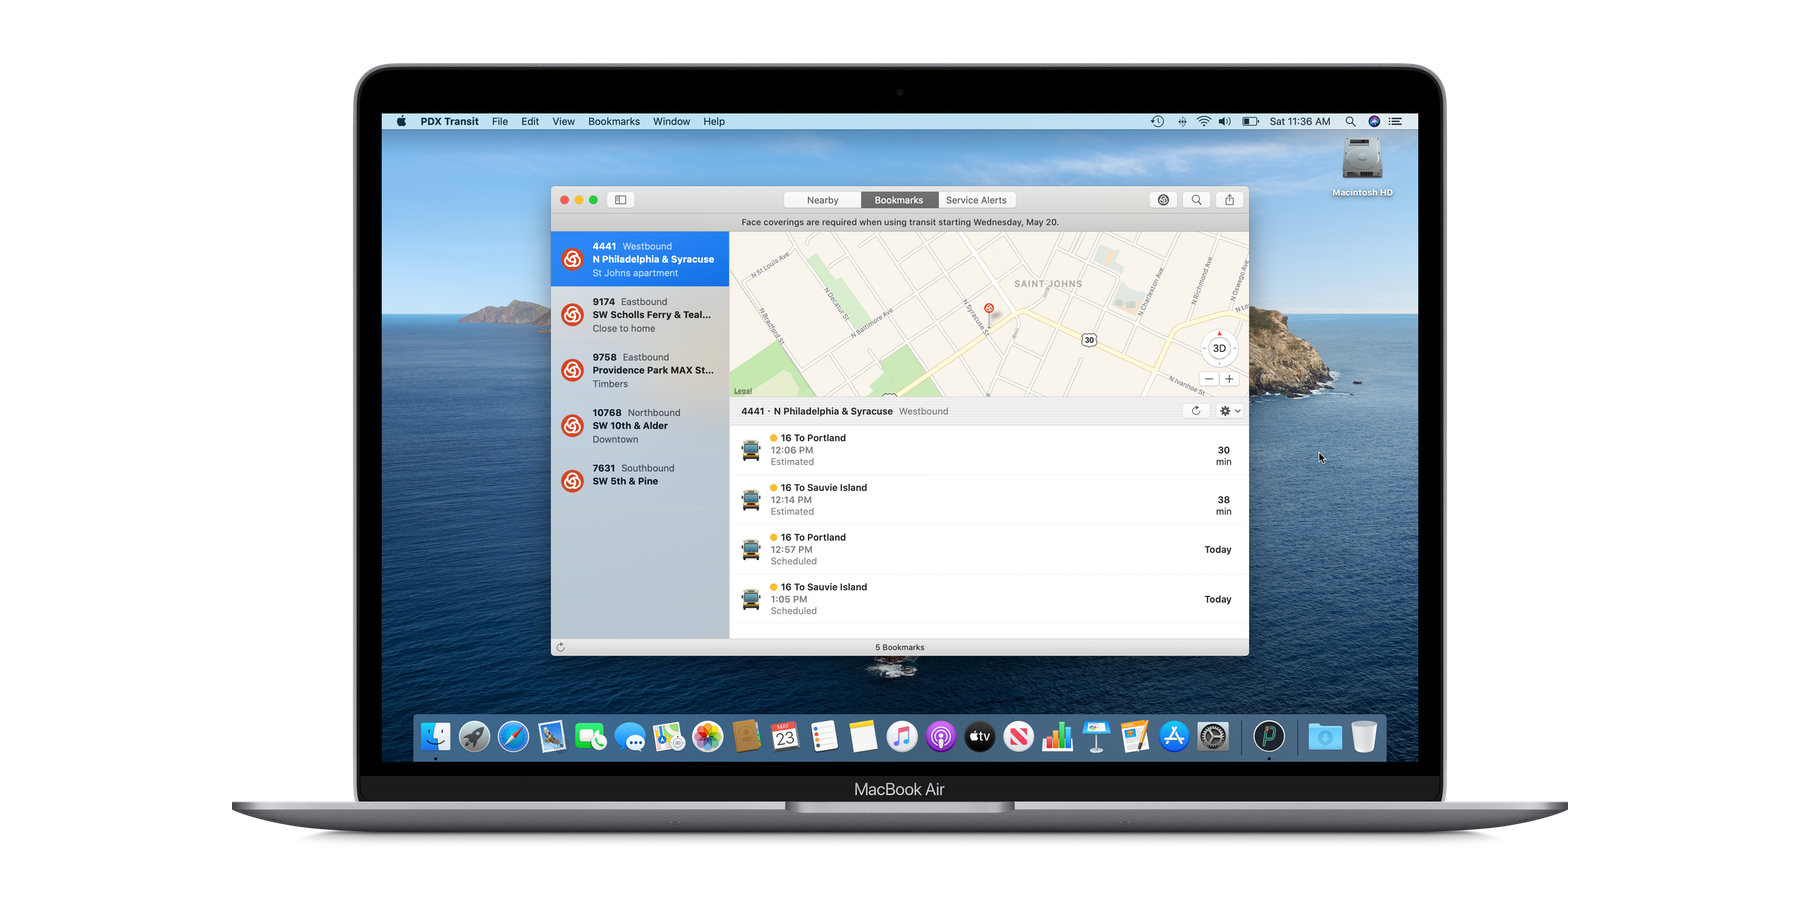
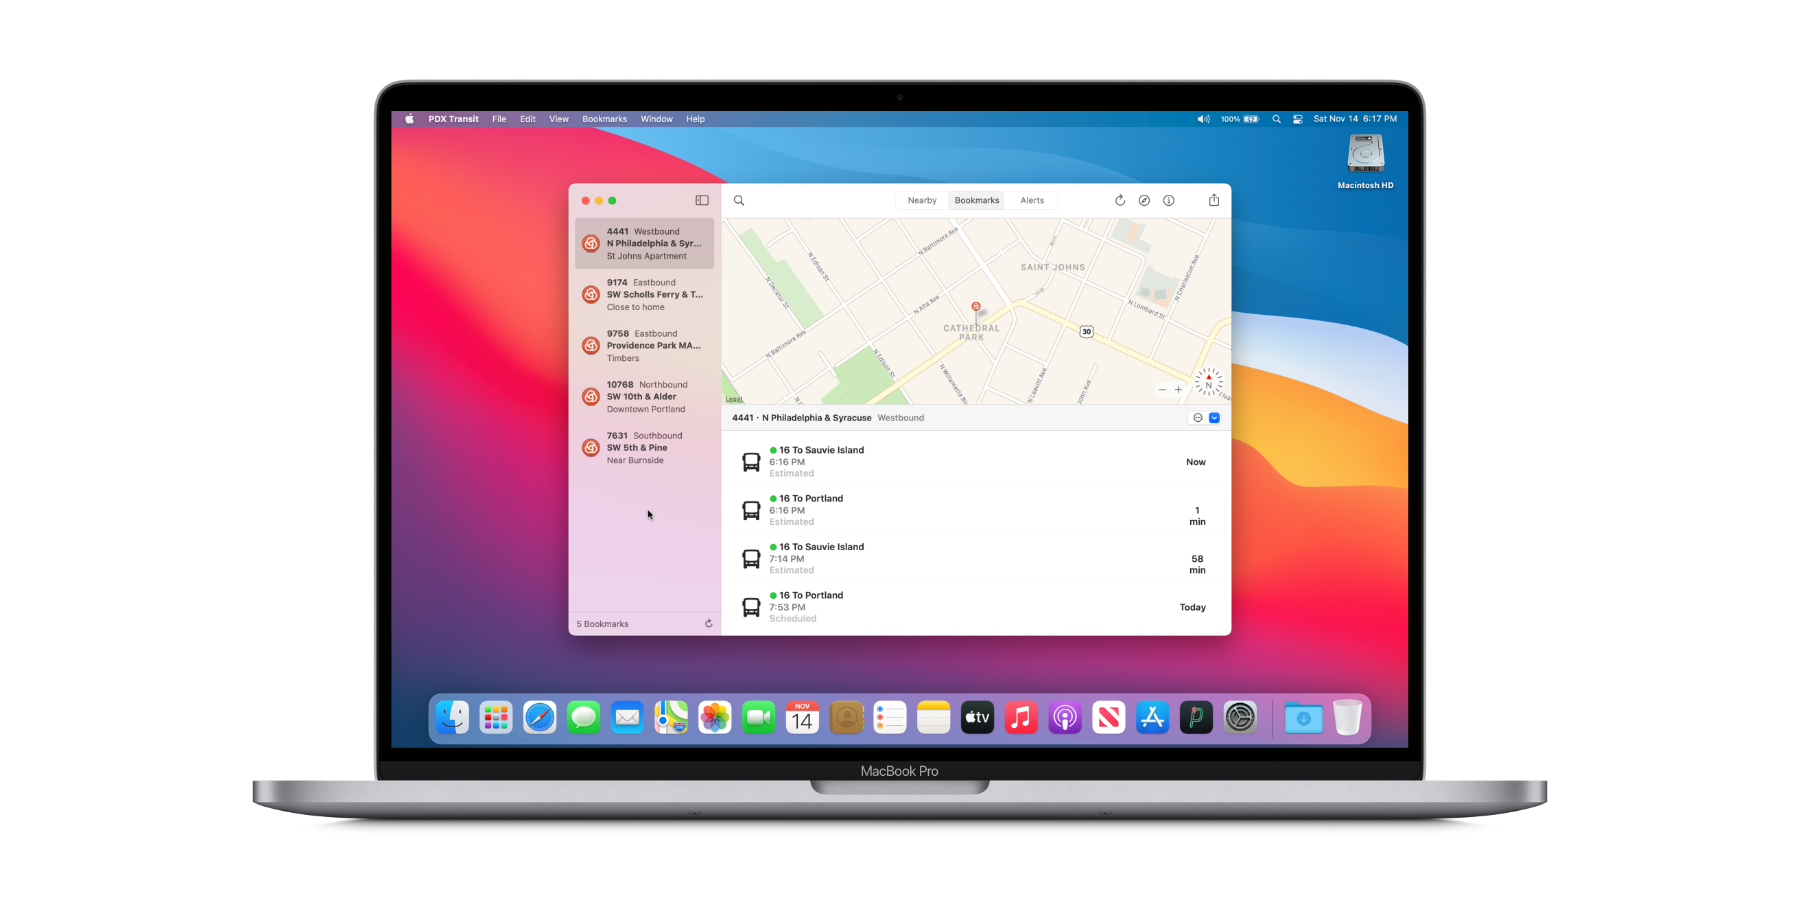
Updated macOS page with device images

diff --git a/pdxtransit/macos/index.html b/pdxtransit/macos/index.html
@@ -68,8 +68,8 @@
 		
 			<div class="row align-items-center">
 				<div class="col-md">
-					<img srcset="images/pdxt_macbookair.png, images/pdxt_macbookair@2x.png 2x" 
-						src="images/pdxt_macbookair@2x.png" 
+					<img srcset="images/pdxt_mbp_16.png, images/pdxt_mbp_16@2x.png 2x" 
+						src="images/pdxt_mbp_16@2x.png" 
 						style="width: 100%; padding-bottom: 20pt;" 
 						alt="PDX Transit on MacBook Air">
 				</div>
@@ -174,6 +174,25 @@
 			
 			<hr>
 			
+			<div class="row align-items-center">
+				<div class="col-md">
+					<img srcset="images/pdxt_macbookair.png, images/pdxt_macbookair@2x.png 2x" 
+						src="images/pdxt_macbookair@2x.png" 
+						class="mx-auto d-block" 
+						style="width: 100%; padding: 20pt 25pt 15pt 25pt;" 
+						alt="PDX Transit on MacBook Air">
+				</div>
+			</div>
+			
+			<div class="row">
+				<div class="col-md" style="text-align: center;">
+					<h4 class="card-text">macOS Catalina</h4>
+					<p class="text-muted">Despite the bold redesign for macOS Big Sur, PDX Transit looks right at home when running on macOS Catalina.</p>
+				</div>
+			</div>
+			
+			<hr>
+			
 			<div class="row align-items-center" style="padding-top: 10pt; padding-bottom: 10pt;">
 				<div class="col-md">
 					<img srcset="images/pdxt_mac_sl.png, images/pdxt_mac_sl@2x.png 2x"
@@ -189,25 +208,6 @@
 					</div>
 					<div class="d-flex justify-content-between align-items-center">
 						<p class="text-muted">Your transit stop history in Core Spotlight so they can be searched by name or Stop ID. It will even display a preview with up-to-the-minute arrival times.</p>
-					</div>
-				</div>
-			</div>
-			
-			<div class="row align-items-center" style="padding-top: 10pt; padding-bottom: 10pt;">
-				<div class="col-md">
-					<img srcset="images/pdxt_mac_helpbook.png, images/pdxt_mac_helpbook@2x.png 2x"
-						src="images/pdxt_mac_helpbook@2x.png" 
-						class="mx-auto d-block" 
-						style="width: 80%;"  
-						alt="Help Book">
-				</div>
-				<div class="col-md">
-					<div class="d-flex justify-content-between align-items-center">
-						<h4 class="card-text">Help Book</h4>
-						<p><span class="badge badge-info"> Apple Help </span></p>
-					</div>
-					<div class="d-flex justify-content-between align-items-center">
-						<p class="text-muted">PDX Transit for macOS includes a proper classic Mac OS X Help Book that can be accessed from the Help menu and is available offline.</p>
 					</div>
 				</div>
 			</div>
@@ -230,13 +230,14 @@
 						<p class="text-muted">With Handoff, you can start on one device, then switch to another nearby device and pick up where you left off.</p>
 					</div>
 				</div>
+				
 				<div class="col-md">
 					<div class="d-flex justify-content-between align-items-center">
-						<h5 class="card-text">Today View Widget</h5>
-						<p><span class="badge badge-danger"> Notification Center </span></p>
+						<h5 class="card-text">Help Book</h5>
+						<p><span class="badge badge-info"> Apple Help </span></p>
 					</div>
 					<div class="d-flex justify-content-between align-items-center">
-						<p class="text-muted">PDX Transit contains a Today View Extension Widget to get instant access to your PDX Transit Bookmarks. Click on a bookmark to open it within PDX Transit.</p>
+						<p class="text-muted">PDX Transit for macOS includes a proper classic Mac OS X Help Book that can be accessed from the Help menu and is available offline.</p>
 					</div>
 				</div>
 			</div>
